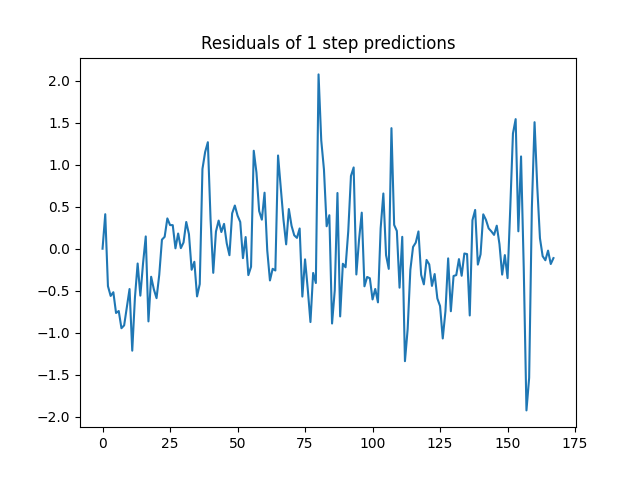
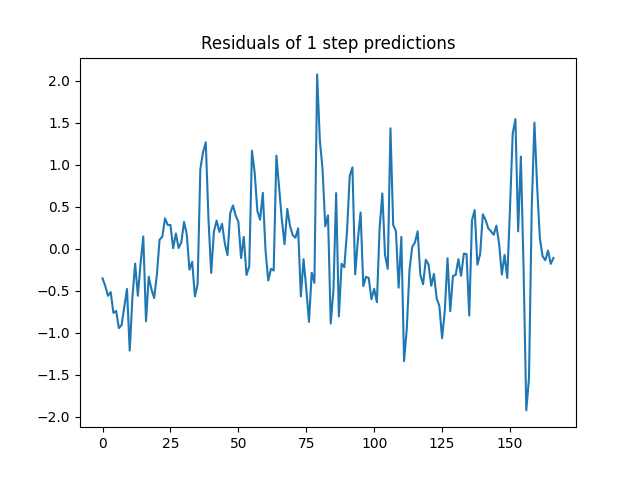
Updated code - should be quite final now

diff --git a/exercise2_4.py b/exercise2_4.py
@@ -18,17 +18,15 @@ Y = df["Y"].values
 # ------------------------------
 def unpack_parameters(theta):
     A = theta[0:4].reshape(2, 2)         # A: 2x2
-    B = theta[4:10].reshape(2, 3)        # B: 2x3
-    C = theta[10:12].reshape(1, 2)       # C: 1x2
-    Q = np.diag(np.exp(theta[12:14]))    # Q: diagonal 2x2, exponentiated for positivity
-    R = np.exp(theta[14])               # R: scalar, exponentiated
-    x0 = theta[15:17]                   # Initial state: 2D
-    return A, B, C, Q, R, x0
+    B = theta[4:10].reshape(2, 3)        # B: 2x3     # C: 1x2
+    Q = np.diag(np.exp(theta[10:12]))    # Q: diagonal 2x2, exponentiated for positivity
+    R = np.exp(theta[12])               # R: scalar, exponentiated
+    x0 = theta[13:15]                   # Initial state: 2D
+    return A, B, Q, R, x0
 
-def kalman_filter(y, u, theta):
-    A, B, C, Q, R, x0 = unpack_parameters(theta)
+def kalman_filter(y, u, theta,C):
+    A, B, Q, R, x0 = unpack_parameters(theta)
     n = len(y)
-
     x_pred = np.zeros((n, 2))
     P_pred = np.zeros((n, 2, 2))
     x_filt = np.zeros((n, 2))
@@ -58,8 +56,8 @@ def kalman_filter(y, u, theta):
 
     return x_pred, P_pred, x_filt, P_filt, innov, S_t, log_likelihood
 
-def negative_log_likelihood(theta, y, u):
-    *_, log_likelihood = kalman_filter(y, u, theta)
+def negative_log_likelihood(theta, y, u, c):
+    *_, log_likelihood = kalman_filter(y, u, theta, c)
     return -log_likelihood
 
 def estimate_model(y, u):
@@ -68,13 +66,13 @@ def estimate_model(y, u):
         1, 0.0, 0.0, 1,            # A (flattened)
         0.1, 0.0, 0.0,                 # B row 1
         0.0, 0.1, 0.0,                 # B row 2
-        1, 0,                      # C
         1, 1,      # Q diag (log for positivity)
         1,                   # R (log for positivity)
-        20.0, 20.0                      # x0
+        23.5, 23.5                      # x0
     ])
-    bounds = [(-2,2)]*4 + [(-5,5)]*6 + [(-5,5)]*2 + [(None,None)]*5
-    result = minimize(negative_log_likelihood, theta0, args=(y, u),bounds = bounds,
+    C = np.array([1, 0]).reshape(1, 2)  
+    bounds = [(-2,2)]*4 + [(-5,5)]*6  + [(None,None)]*5
+    result = minimize(negative_log_likelihood, theta0, args=(y, u, C),bounds = bounds,
                       method="L-BFGS-B", options={'maxiter': 5000})
     return result
 
@@ -85,16 +83,19 @@ theta_hat = result.x
 print("Estimated parameters:", theta_hat)
 
 # Predict
-A, B, C, Q, R, x0 = unpack_parameters(theta_hat)
+A, B, Q, R, x0 = unpack_parameters(theta_hat)
+C = np.array([1, 0]).reshape(1, 2)  # C: 1x2
 # run filter once more with the MLE
-x_p, P_p, x_filt, _, innov, _, _= kalman_filter(Y, u, theta_hat)
+x_p, P_p, x_filt, _, innov, _, _= kalman_filter(Y, u, theta_hat, C)
 
+Y_pred = (C @ x_p[1:].T).ravel()  
+residuals = Y[1:] - Y_pred
 cols = cm.rainbow(np.linspace(0, 1, 3))   # three distinct colours
 
 fig, ax1 = plt.subplots(figsize=(10, 5))
 
 # -- latent states (primary axis) ---------------------------------------------
-ax1.plot(df["time"], x_filt[:, 1], label=r"$x_{2,t}$")
+ax1.plot(df["time"], x_filt[:, 0], label=r"$x_{1,t}$")
 
 # exogenous inputs Ta and S on the primary axis
 ax1.plot(df["time"], df["Ta"], color=cols[0], ls="--", alpha=0.5,
@@ -103,15 +104,15 @@ ax1.plot(df["time"], df["I"],  color=cols[1], ls="--", alpha=0.5,
          label=r"$\Phi_{I,t}$")
 
 ax1.set_xlabel("Time")
-ax1.set_ylabel("State / Inputs")                    
+ax1.set_ylabel(r"$x_{1,t}$, $T_{a,t}$, $\Phi_{I,t}$ (primary axis)")                    
 ax1.set_title("Kalman-filter state estimates and exogenous inputs")
 
 # -- secondary axis for I ------------------------------------------------------
 ax2 = ax1.twinx()
-ax2.plot(df["time"], x_filt[:, 0], label=r"$x_{1,t}$")
+ax2.plot(df["time"], x_filt[:, 1], label=r"$x_{2,t}$",color = "orange")
 ax2.plot(df["time"], df["S"], color=cols[2], ls="--", alpha=0.5,
          label=r"$\Phi_{s,t}$")
-ax2.set_ylabel(r"$\Phi_{s,t}$ (secondary axis)")
+ax2.set_ylabel(r"$x_{2,t}$, $\Phi_{s,t}$ (secondary axis)")
 
 # -- combined legend -----------------------------------------------------------
 handles1, labels1 = ax1.get_legend_handles_labels()
@@ -141,6 +142,26 @@ params = pd.DataFrame({
     "value": [A, B, C, Q, R, x0]
 })
 params.to_csv(f"images/2.4/params.csv", index=False)
+
+# 2) AIC and BIC
+n = len(Y)
+k = len(theta_hat)
+lnL =LL = -negative_log_likelihood(theta_hat, Y, u, C)
+
+
+AIC = 2*k - 2*lnL
+BIC = k*np.log(n) - 2*lnL
+RMSE = np.sqrt(np.mean(residuals**2))
+print(f"AIC = {AIC:.2f}")
+print(f"BIC = {BIC:.2f}")
+print(f"RMSE = {RMSE:.2f}")
+# (Optionally save to file or DataFrame)
+info = pd.DataFrame({
+    "stat": ["n_obs","n_params","logLik","AIC","BIC", "RMSE"],
+    "value": [n, k, lnL, AIC, BIC, RMSE]
+})
+info.to_csv(f"images/2.4/info_criteria.csv", index=False)
+
 # # ------------------------------
 
 # # point forecast of yₜ

diff --git a/harh/exercise2_2_harh.py b/harh/exercise2_2_harh.py
@@ -11,17 +11,16 @@ raw = pd.read_csv(f"{PARENT_DIR}/transformer_data.csv")
 def unpack_params(params):
     A  = params[0]
     B  = params[1:4]        # length-3 vector
-    C  = params[4]
-    Q  = params[5]
-    R  = params[6]
-    X0 = params[7]
-    P0 = params[8]
-    return A,B,C,Q,R,X0,P0
+    Q  = params[4]
+    R  = params[5]
+    X0 = params[6]
+    P0 = params[7]
+    return A,B,Q,R,X0,P0
 
-def kf_logLik_dt(params,y,U):
+def kf_logLik_dt(params,y,U,C):
     #Some adjustable params
         # unpack
-    A,B,C,Q,R,X0,P0 = unpack_params(params)
+    A,B,Q,R,X0,P0 = unpack_params(params)
 
     # Allocate arrays
     n = len(y)
@@ -50,19 +49,20 @@ def kf_logLik_dt(params,y,U):
 
         # Update
         x_filt[t] = x_pred[t] + K_t * innovations[t]
-        P_filt[t] = (1 - K_t*C) * P_pred[t]
+        P_filt[t] = ((1 - K_t*C) * P_pred[t]).item()
         L += -1/2*np.sum(np.log(2*np.pi*S[t])+innovations[t]**2*(S[t]**(-1)))
 
     return x_pred, P_pred, innovations, S, x_filt, P_filt, -L
-def objective(params,y,U):
-    _, _, _, _, _, _, L_val = kf_logLik_dt(params,y,U)
+def objective(params,y,U,C):
+    _, _, _, _, _, _, L_val = kf_logLik_dt(params,y,U,C)
     return L_val
 
 def estimate_dt(df,start_guess,bounds):
     y = df["Y"].values
     U = df[["Ta","S","I"]].values
+    C = np.array([1])
     result = minimize(
-        fun=lambda p: objective(p, y, U),
+        fun=lambda p: objective(p, y, U,C),
         x0=start_guess,
         method="L-BFGS-B",
         bounds=bounds
@@ -74,7 +74,6 @@ bounds = [
     (-1,1),  # B1
     (-1,1),  # B2
     (-1,1),  # B3
-    (0,1),  # C
     (1e-8,None),  # Q (variance ≥ 0)
     (1e-8,None),  # R
     (0,100),      # X0
@@ -83,30 +82,30 @@ bounds = [
 
 
 
-A = (np.random.rand()-0.5)*2
-B = (np.random.rand(3))*2
-C = (np.random.rand()-0.5)*2
+A = 1
+B = np.array([1,1,1])
 Q = 1
 R = 1
-X0 = np.random.rand()+19.5
+X0 = 23.5
 P0 = 1
 df = raw
 start = np.concatenate([
     [A],       # 0
     B,         # 1–3
-    [C, Q, R,  # 4–6
+    [Q, R,  # 4–6
      X0, P0]   # 7–8
 ])
 result = estimate_dt(df,start,bounds)
 
 y = df["Y"].values
 U = df[["Ta","S","I"]].values
-x_pred, P_pred, innovations, S, x_filt, P_filt, neglogLik = kf_logLik_dt(result.x,y,U)
+C = np.array([1])
+x_pred, P_pred, innovations, S, x_filt, P_filt, neglogLik = kf_logLik_dt(result.x,y,U,C)
 print("done")
 
-Y_pred = result.x[4]*x_pred[1:]
+Y_pred = C*x_pred[1:]
 R = result.x[6]
-C = result.x[4]
+residuals = y[1:] - Y_pred
 stderr = np.sqrt(C**2 * P_pred[1:] + R)
 Y_pred_lower = Y_pred-1.96*stderr
 Y_pred_higher  =  Y_pred+1.96*stderr
@@ -122,7 +121,7 @@ plt.savefig(f"{PARENT_DIR}/images/2.2/ex2_2_confidence_int_prediction.png")
 plt.clf()
 
 #Simple plot of innovation
-plt.plot(innovations, label = "residuals")
+plt.plot(innovations[1:], label = "residuals")
 plt.title("Residuals of 1 step predictions")
 plt.savefig(f"{PARENT_DIR}/images/2.2/Residuals.png")
 plt.clf()
@@ -132,18 +131,18 @@ lags = 40  # or however many lags you want
 fig, axes = plt.subplots(2, 1, figsize=(8, 6))
 
 # ACF
-plot_acf(innovations, lags=lags, ax=axes[0])
+plot_acf(innovations[1:], lags=lags, ax=axes[0])
 axes[0].set_title("ACF of 1-step residuals")
 
 # PACF
-plot_pacf(innovations, lags=lags, ax=axes[1], method="ywm")
+plot_pacf(innovations[1:], lags=lags, ax=axes[1], method="ywm")
 axes[1].set_title("PACF of 1-step residuals")
 
 plt.tight_layout()
 plt.savefig(f"{PARENT_DIR}/images/2.2/ACF_PACF.png")
 # 1) QQ–plot of innovations
 plt.figure()
-sm.qqplot(innovations, line="45", fit=True)
+sm.qqplot(innovations[1:], line="45", fit=True)
 plt.title("QQ-Plot of One‐Step Residuals")
 plt.savefig(f"{PARENT_DIR}/images/2.2/QQplot_residuals.png")
 plt.clf()
@@ -155,9 +154,11 @@ lnL = -neglogLik
 
 AIC = 2*k - 2*lnL
 BIC = k*np.log(n) - 2*lnL
-
+RMSE = np.sqrt(np.mean(residuals**2))
 print(f"AIC = {AIC:.2f}")
 print(f"BIC = {BIC:.2f}")
+print(f"RMSE = {RMSE:.2f}")
+
 
 # (Optionally save to file or DataFrame)
 info = pd.DataFrame({

diff --git a/exercise2_3.py b/exercise2_3.py
@@ -16,17 +16,15 @@ Y = df["Y"].values
 # ------------------------------
 def unpack_parameters(theta):
     A = theta[0:4].reshape(2, 2)         # A: 2x2
-    B = theta[4:10].reshape(2, 3)        # B: 2x3
-    C = theta[10:12].reshape(1, 2)       # C: 1x2
-    Q = np.diag(np.exp(theta[12:14]))    # Q: diagonal 2x2, exponentiated for positivity
-    R = np.exp(theta[14])               # R: scalar, exponentiated
-    x0 = theta[15:17]                   # Initial state: 2D
-    return A, B, C, Q, R, x0
+    B = theta[4:10].reshape(2, 3)        # B: 2x3     # C: 1x2
+    Q = np.diag(np.exp(theta[10:12]))    # Q: diagonal 2x2, exponentiated for positivity
+    R = np.exp(theta[12])               # R: scalar, exponentiated
+    x0 = theta[13:15]                   # Initial state: 2D
+    return A, B, Q, R, x0
 
-def kalman_filter(y, u, theta):
-    A, B, C, Q, R, x0 = unpack_parameters(theta)
+def kalman_filter(y, u, theta,C):
+    A, B, Q, R, x0 = unpack_parameters(theta)
     n = len(y)
-
     x_pred = np.zeros((n, 2))
     P_pred = np.zeros((n, 2, 2))
     x_filt = np.zeros((n, 2))
@@ -56,8 +54,8 @@ def kalman_filter(y, u, theta):
 
     return x_pred, P_pred, x_filt, P_filt, innov, S_t, log_likelihood
 
-def negative_log_likelihood(theta, y, u):
-    *_, log_likelihood = kalman_filter(y, u, theta)
+def negative_log_likelihood(theta, y, u, c):
+    *_, log_likelihood = kalman_filter(y, u, theta, c)
     return -log_likelihood
 
 def estimate_model(y, u):
@@ -66,13 +64,13 @@ def estimate_model(y, u):
         1, 0.0, 0.0, 1,            # A (flattened)
         0.1, 0.0, 0.0,                 # B row 1
         0.0, 0.1, 0.0,                 # B row 2
-        1, 0,                      # C
         1, 1,      # Q diag (log for positivity)
         1,                   # R (log for positivity)
-        20.0, 20.0                      # x0
+        23.5, 23.5                      # x0
     ])
-    bounds = [(-2,2)]*4 + [(-5,5)]*6 + [(0,1)] + [(0,1)] + [(None,None)]*5
-    result = minimize(negative_log_likelihood, theta0, args=(y, u,c),bounds = bounds,
+    C = np.array([1, 0]).reshape(1, 2)  
+    bounds = [(-2,2)]*4 + [(-5,5)]*6  + [(None,None)]*5
+    result = minimize(negative_log_likelihood, theta0, args=(y, u, C),bounds = bounds,
                       method="L-BFGS-B", options={'maxiter': 5000})
     return result
 
@@ -83,9 +81,10 @@ theta_hat = result.x
 print("Estimated parameters:", theta_hat)
 
 # Predict
-A, B, C, Q, R, x0 = unpack_parameters(theta_hat)
+A, B, Q, R, x0 = unpack_parameters(theta_hat)
+C = np.array([1, 0]).reshape(1, 2)  # C: 1x2
 # run filter once more with the MLE
-x_p, P_p, x_filt, _, innov, _, _= kalman_filter(Y, u, theta_hat)
+x_p, P_p, x_filt, _, innov, _, _= kalman_filter(Y, u, theta_hat, C)
 
 # point forecast of yₜ
 Y_pred = (C @ x_p[1:].T).ravel()  
@@ -138,7 +137,7 @@ plt.savefig("images/2.3/ex2_3_stats.png")
 # 2) AIC and BIC
 n = len(Y)
 k = len(theta_hat)
-lnL =LL = -negative_log_likelihood(theta_hat, Y, u)
+lnL =LL = -negative_log_likelihood(theta_hat, Y, u, C)
 
 
 AIC = 2*k - 2*lnL
